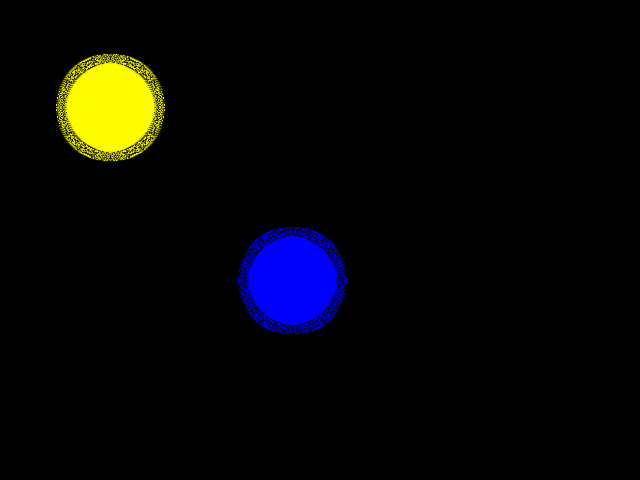
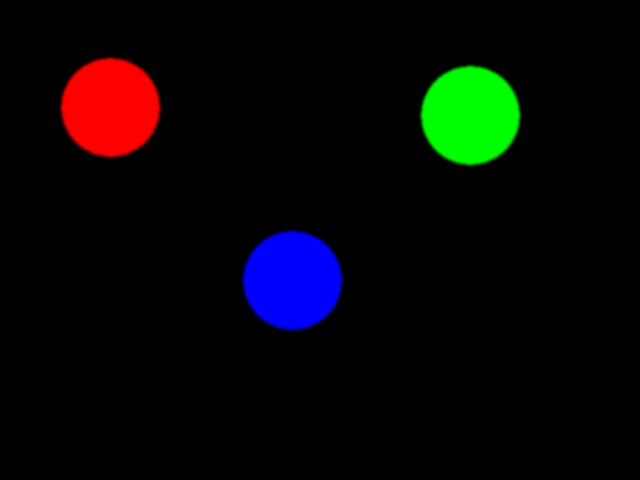
fixed everything but the edges

Changed region(s): [[0.0625, 0.0938, 0.2812, 0.3438], [0.6562, 0.125, 0.8125, 0.3438], [0.375, 0.4688, 0.5625, 0.7188]]

diff --git a/blur/blur.go b/blur/blur.go
@@ -74,6 +74,15 @@ func exactGaussianBlur(input *image.Image, sigma float64) *image.RGBA {
 			}
 
 			for i := range convR {
+				if convR[i] > 255 {
+					convR[i] = 255
+				}
+				if convG[i] > 255 {
+					convG[i] = 255
+				}
+				if convB[i] > 255 {
+					convB[i] = 255
+				}
 				processedRowsOnly.SetRGBA(xMin+i, y,
 					color.RGBA{
 						R: uint8(convR[i]),
@@ -124,10 +133,19 @@ func exactGaussianBlur(input *image.Image, sigma float64) *image.RGBA {
 			}
 
 			for i := range convR {
+				if convR[i] > 255 {
+					convR[i] = 255
+				}
+				if convG[i] > 255 {
+					convG[i] = 255
+				}
+				if convB[i] > 255 {
+					convB[i] = 255
+				}
 				processedRowsCols.SetRGBA(x, yMin+i,
 					color.RGBA{
 						R: uint8(convR[i]),
-						G: uint8(convR[i]),
+						G: uint8(convG[i]),
 						B: uint8(convB[i]),
 						A: uint8(255),
 					})
